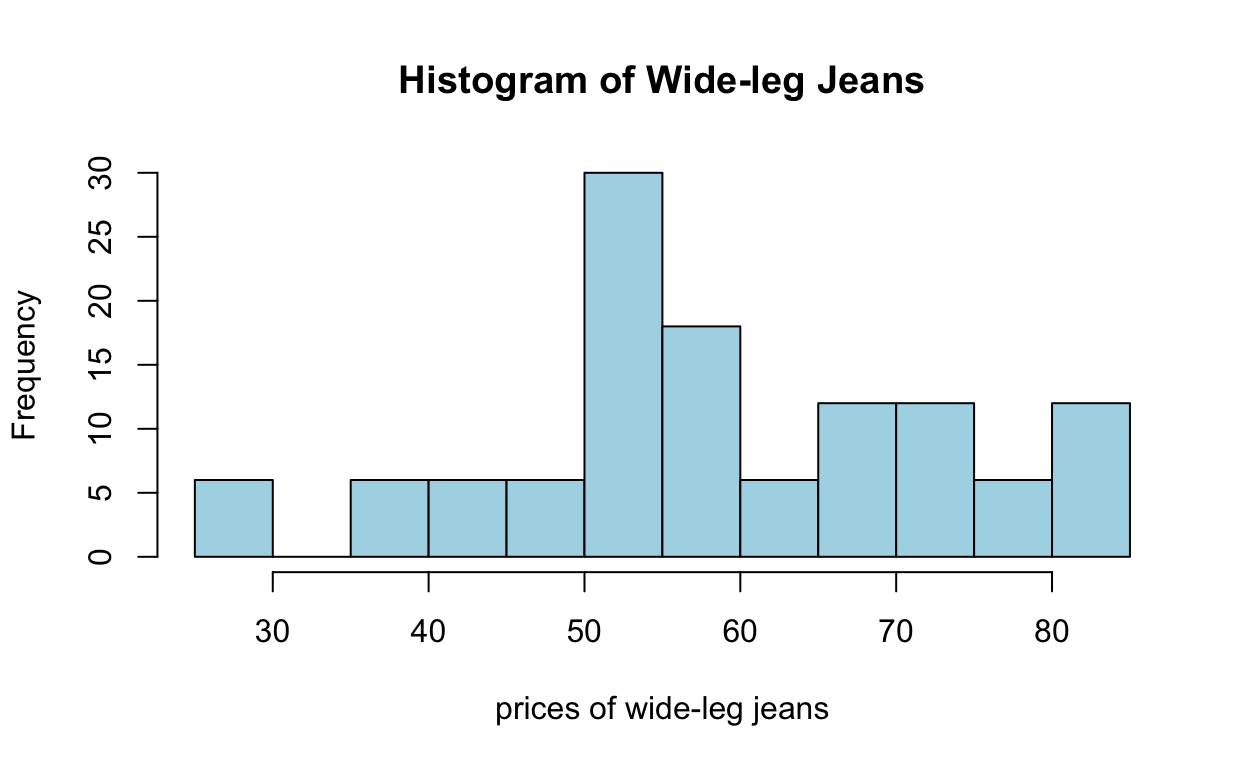
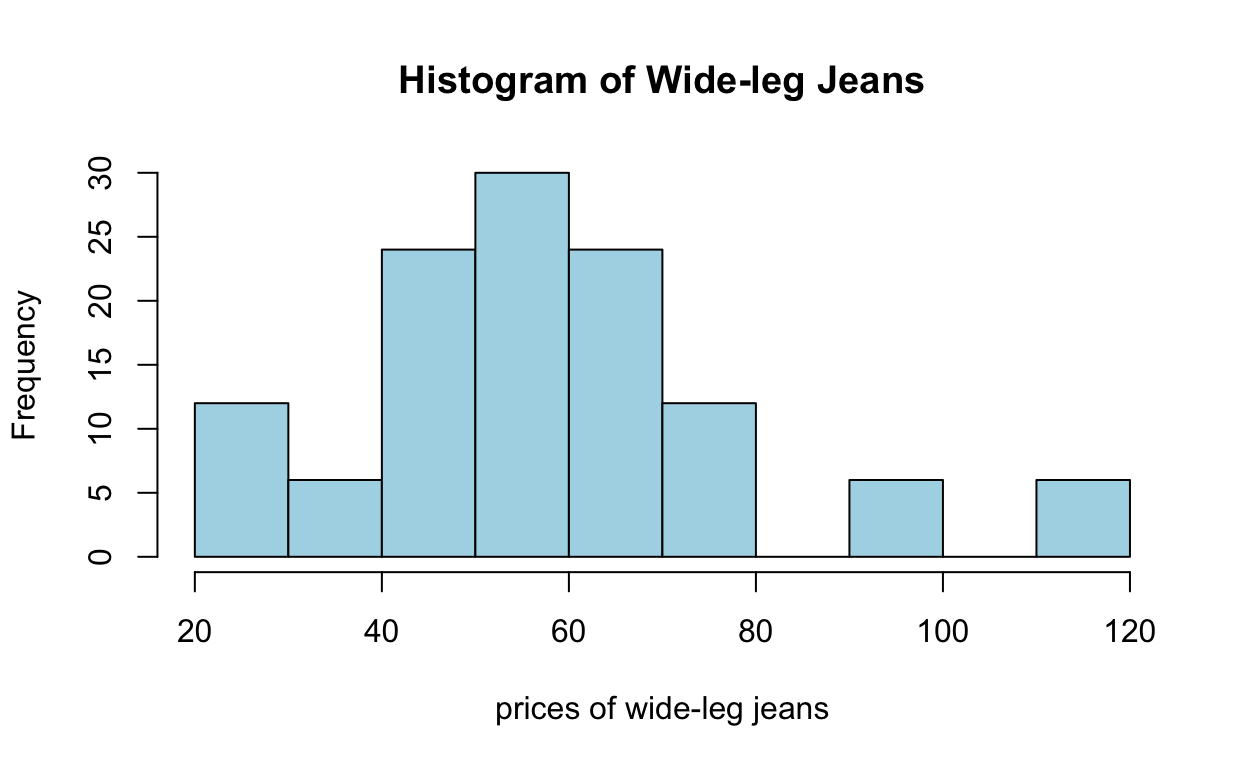
addition to the revised blogpost

diff --git a/docs/indexing_filtering.html b/docs/indexing_filtering.html
@@ -2269,28 +2269,28 @@ Statistik II
 <span><span class='fu'><a href='https://rdrr.io/r/utils/head.html'>head</a></span><span class='op'>(</span><span class='va'>my_dataframe</span><span class='op'>)</span></span></code></pre>
 </div>
 <pre><code>  ItemType Price       Cut
-1    jeans    47      boot
-2    jeans    44       7/8
-3    jeans    47    skinny
-4    jeans    39  wide leg
-5    jeans    77 boyfriend
-6    jeans    96      boot</code></pre>
+1    jeans    52      boot
+2    jeans    59       7/8
+3    jeans    68    skinny
+4    jeans    59  wide leg
+5    jeans    74 boyfriend
+6    jeans    90      boot</code></pre>
 <div class="sourceCode">
 <pre class="sourceCode r"><code class="sourceCode r"><span><span class='co'># Access the second row</span></span>
 <span><span class='va'>row_2</span> <span class='op'>=</span> <span class='va'>my_dataframe</span><span class='op'>[</span><span class='fl'>2</span>, <span class='op'>]</span></span>
 <span><span class='fu'><a href='https://rdrr.io/r/base/print.html'>print</a></span><span class='op'>(</span><span class='va'>row_2</span><span class='op'>)</span></span></code></pre>
 </div>
 <pre><code>  ItemType Price Cut
-2    jeans    44 7/8</code></pre>
+2    jeans    59 7/8</code></pre>
 <div class="sourceCode">
 <pre class="sourceCode r"><code class="sourceCode r"><span><span class='co'># Access the entire first column</span></span>
 <span><span class='va'>col_2</span> <span class='op'>=</span> <span class='va'>my_dataframe</span><span class='op'>[</span> ,<span class='fl'>2</span><span class='op'>]</span></span>
 <span><span class='va'>col_2</span><span class='op'>[</span><span class='fl'>1</span><span class='op'>:</span><span class='fl'>50</span><span class='op'>]</span></span></code></pre>
 </div>
-<pre><code> [1]  47  44  47  39  77  96  72  50  70  59  65  95  77  68  71  85
-[17]  95  58  60  66  52  91  37  56  53  29  71  50  65  54  77  38
-[33]  74  53  40  66  67  56  54  73  44  94  29  45  39  54 103  58
-[49]  74  90</code></pre>
+<pre><code> [1]  52  59  68  59  74  90  53  32  30  81  53  63  54  58  22  50
+[17]  74  50  56  67  53  33  48  32  52  78  54  35  27  81  47  54
+[33]  46  65  31  28  41  75  72  79 111  38  74  47 103  52  49  69
+[49]  46  62</code></pre>
 <div class="sourceCode">
 <pre class="sourceCode r"><code class="sourceCode r"><span><span class='co'># Access the 'Age' column using column name</span></span>
 <span><span class='va'>allCuts</span> <span class='op'>=</span> <span class='va'>my_dataframe</span><span class='op'>$</span><span class='va'>Cut</span></span>
@@ -2332,26 +2332,26 @@ Statistik II
 <span><span class='fu'><a href='https://rdrr.io/r/utils/head.html'>head</a></span><span class='op'>(</span><span class='va'>my_dataframe_boot</span>, n <span class='op'>=</span> <span class='fl'>20</span><span class='op'>)</span> <span class='co'># n stands for the number of top observations you wish to see out of the dataframe </span></span></code></pre>
 </div>
 <pre><code>   ItemType Price  Cut
-1     jeans    47 boot
-6     jeans    96 boot
-11    jeans    65 boot
-16    jeans    85 boot
-21    jeans    52 boot
-26    jeans    29 boot
-31    jeans    77 boot
-36    jeans    66 boot
-41    jeans    44 boot
-46    jeans    54 boot
-51    jeans    84 boot
-56    jeans    44 boot
-61    jeans    29 boot
-66    jeans    83 boot
-71    jeans    85 boot
-76    jeans    71 boot
-81    jeans    92 boot
-86    jeans    63 boot
-91    jeans    48 boot
-96    jeans    57 boot</code></pre>
+1     jeans    52 boot
+6     jeans    90 boot
+11    jeans    53 boot
+16    jeans    50 boot
+21    jeans    53 boot
+26    jeans    78 boot
+31    jeans    47 boot
+36    jeans    28 boot
+41    jeans   111 boot
+46    jeans    52 boot
+51    jeans    60 boot
+56    jeans    81 boot
+61    jeans   106 boot
+66    jeans    47 boot
+71    jeans    36 boot
+76    jeans    54 boot
+81    jeans    61 boot
+86    jeans    35 boot
+91    jeans    89 boot
+96    jeans    62 boot</code></pre>
 <div class="sourceCode">
 <pre class="sourceCode r"><code class="sourceCode r"><span><span class='co'># bonus...lets see the distribution of the prices of boot cuts </span></span>
 <span><span class='fu'><a href='https://rdrr.io/r/graphics/hist.html'>hist</a></span><span class='op'>(</span><span class='va'>my_dataframe</span><span class='op'>[</span><span class='va'>condition_boot</span>, <span class='fl'>2</span><span class='op'>]</span>,</span>
@@ -2375,75 +2375,20 @@ Statistik II
 </div>
 <p><img src="indexing_filtering_files/figure-html5/unnamed-chunk-7-1.png" width="624" /></p>
 </div>
-<h2 id="yet-another-way-to-indexfilter">yet another way to index/filter</h2>
-<p>Stellen wir uns vor, wir haben einen Datenrahmen namens “clothing”, der eine Liste verschiedener Kleidungsstücke, deren Farben und Preise enthält. Wir wollen Zeilen für alle Jeans extrahieren, die blau sind (oder die mehr als 35 EUR kosten). Hier ist ein Beispiel, wie du den Datenrahmen einrichten und die Operation durchführen könntest:</p>
-<p>Auch in diesem Beispiel: Wir können auch mehrerer Bedingungen kombinieren mithilfe von logischen Operatoren wie &amp; (UND) und | (ODER). Zum Beispiel, wenn du Zeilen filtern möchtest, in denen ‘price’ größer als 59 und ein “wide leg” cut ist:</p>
+<h2 id="indexingfiltering-by-multiple-conditions">Indexing/Filtering by multiple conditions</h2>
+<p>Stellen wir uns vor, wir wollen Zeilen für alle “Wide leg” Jeans extrahieren UND die mehr als 39 EUR kosten. Hier ist ein Beispiel, wie du den Datenrahmen einrichten und die Operation durchführen könntest:</p>
+<p>Wir können mehrerer Bedingungen kombinieren mithilfe von logischen Operatoren wie &amp; (UND) und | (ODER).</p>
+<p>Zum Beispiel,</p>
+<ol type="1">
+<li>wenn du Zeilen filtern möchtest, in denen ‘price’ größer als 39 UND ein “wide leg” cut ist.
 <div class="layout-chunk" data-layout="l-body">
 <div class="sourceCode">
 <pre class="sourceCode r"><code class="sourceCode r"><span><span class='co'># condition that will select both wide cuts and those that cost more than 59Euro</span></span>
 <span><span class='va'>condition_wide_39</span> <span class='op'>=</span> <span class='va'>my_dataframe</span><span class='op'>$</span><span class='va'>Cut</span> <span class='op'>==</span> <span class='st'>"wide leg"</span> <span class='op'>&amp;</span> <span class='va'>my_dataframe</span><span class='op'>$</span><span class='va'>Price</span> <span class='op'>&gt;</span> <span class='fl'>39</span></span>
-<span><span class='fu'><a href='https://rdrr.io/r/base/print.html'>print</a></span><span class='op'>(</span><span class='va'>condition_wide_39</span><span class='op'>)</span></span></code></pre>
-</div>
-<pre><code>  [1] FALSE FALSE FALSE FALSE FALSE FALSE FALSE FALSE  TRUE FALSE
- [11] FALSE FALSE FALSE  TRUE FALSE FALSE FALSE FALSE  TRUE FALSE
- [21] FALSE FALSE FALSE  TRUE FALSE FALSE FALSE FALSE  TRUE FALSE
- [31] FALSE FALSE FALSE  TRUE FALSE FALSE FALSE FALSE  TRUE FALSE
- [41] FALSE FALSE FALSE  TRUE FALSE FALSE FALSE FALSE  TRUE FALSE
- [51] FALSE FALSE FALSE  TRUE FALSE FALSE FALSE FALSE  TRUE FALSE
- [61] FALSE FALSE FALSE  TRUE FALSE FALSE FALSE FALSE  TRUE FALSE
- [71] FALSE FALSE FALSE  TRUE FALSE FALSE FALSE FALSE FALSE FALSE
- [81] FALSE FALSE FALSE  TRUE FALSE FALSE FALSE FALSE  TRUE FALSE
- [91] FALSE FALSE FALSE  TRUE FALSE FALSE FALSE FALSE  TRUE FALSE
-[101] FALSE FALSE FALSE FALSE FALSE FALSE FALSE FALSE  TRUE FALSE
-[111] FALSE FALSE FALSE  TRUE FALSE FALSE FALSE FALSE  TRUE FALSE
-[121] FALSE FALSE FALSE  TRUE FALSE FALSE FALSE FALSE  TRUE FALSE
-[131] FALSE FALSE FALSE  TRUE FALSE FALSE FALSE FALSE  TRUE FALSE
-[141] FALSE FALSE FALSE  TRUE FALSE FALSE FALSE FALSE  TRUE FALSE
-[151] FALSE FALSE FALSE  TRUE FALSE FALSE FALSE FALSE  TRUE FALSE
-[161] FALSE FALSE FALSE  TRUE FALSE FALSE FALSE FALSE  TRUE FALSE
-[171] FALSE FALSE FALSE  TRUE FALSE FALSE FALSE FALSE FALSE FALSE
-[181] FALSE FALSE FALSE  TRUE FALSE FALSE FALSE FALSE  TRUE FALSE
-[191] FALSE FALSE FALSE  TRUE FALSE FALSE FALSE FALSE  TRUE FALSE
-[201] FALSE FALSE FALSE FALSE FALSE FALSE FALSE FALSE  TRUE FALSE
-[211] FALSE FALSE FALSE  TRUE FALSE FALSE FALSE FALSE  TRUE FALSE
-[221] FALSE FALSE FALSE  TRUE FALSE FALSE FALSE FALSE  TRUE FALSE
-[231] FALSE FALSE FALSE  TRUE FALSE FALSE FALSE FALSE  TRUE FALSE
-[241] FALSE FALSE FALSE  TRUE FALSE FALSE FALSE FALSE  TRUE FALSE
-[251] FALSE FALSE FALSE  TRUE FALSE FALSE FALSE FALSE  TRUE FALSE
-[261] FALSE FALSE FALSE  TRUE FALSE FALSE FALSE FALSE  TRUE FALSE
-[271] FALSE FALSE FALSE  TRUE FALSE FALSE FALSE FALSE FALSE FALSE
-[281] FALSE FALSE FALSE  TRUE FALSE FALSE FALSE FALSE  TRUE FALSE
-[291] FALSE FALSE FALSE  TRUE FALSE FALSE FALSE FALSE  TRUE FALSE
-[301] FALSE FALSE FALSE FALSE FALSE FALSE FALSE FALSE  TRUE FALSE
-[311] FALSE FALSE FALSE  TRUE FALSE FALSE FALSE FALSE  TRUE FALSE
-[321] FALSE FALSE FALSE  TRUE FALSE FALSE FALSE FALSE  TRUE FALSE
-[331] FALSE FALSE FALSE  TRUE FALSE FALSE FALSE FALSE  TRUE FALSE
-[341] FALSE FALSE FALSE  TRUE FALSE FALSE FALSE FALSE  TRUE FALSE
-[351] FALSE FALSE FALSE  TRUE FALSE FALSE FALSE FALSE  TRUE FALSE
-[361] FALSE FALSE FALSE  TRUE FALSE FALSE FALSE FALSE  TRUE FALSE
-[371] FALSE FALSE FALSE  TRUE FALSE FALSE FALSE FALSE FALSE FALSE
-[381] FALSE FALSE FALSE  TRUE FALSE FALSE FALSE FALSE  TRUE FALSE
-[391] FALSE FALSE FALSE  TRUE FALSE FALSE FALSE FALSE  TRUE FALSE
-[401] FALSE FALSE FALSE FALSE FALSE FALSE FALSE FALSE  TRUE FALSE
-[411] FALSE FALSE FALSE  TRUE FALSE FALSE FALSE FALSE  TRUE FALSE
-[421] FALSE FALSE FALSE  TRUE FALSE FALSE FALSE FALSE  TRUE FALSE
-[431] FALSE FALSE FALSE  TRUE FALSE FALSE FALSE FALSE  TRUE FALSE
-[441] FALSE FALSE FALSE  TRUE FALSE FALSE FALSE FALSE  TRUE FALSE
-[451] FALSE FALSE FALSE  TRUE FALSE FALSE FALSE FALSE  TRUE FALSE
-[461] FALSE FALSE FALSE  TRUE FALSE FALSE FALSE FALSE  TRUE FALSE
-[471] FALSE FALSE FALSE  TRUE FALSE FALSE FALSE FALSE FALSE FALSE
-[481] FALSE FALSE FALSE  TRUE FALSE FALSE FALSE FALSE  TRUE FALSE
-[491] FALSE FALSE FALSE  TRUE FALSE FALSE FALSE FALSE  TRUE FALSE
-[501] FALSE FALSE FALSE FALSE FALSE FALSE FALSE FALSE  TRUE FALSE
-[511] FALSE FALSE FALSE  TRUE FALSE FALSE FALSE FALSE  TRUE FALSE
-[521] FALSE FALSE FALSE  TRUE FALSE FALSE FALSE FALSE  TRUE FALSE
-[531] FALSE FALSE FALSE  TRUE FALSE FALSE FALSE FALSE  TRUE FALSE
-[541] FALSE FALSE FALSE  TRUE FALSE FALSE FALSE FALSE  TRUE FALSE
-[551] FALSE FALSE FALSE  TRUE FALSE FALSE FALSE FALSE  TRUE FALSE
-[561] FALSE FALSE FALSE  TRUE FALSE FALSE FALSE FALSE  TRUE FALSE
-[571] FALSE FALSE FALSE  TRUE FALSE FALSE FALSE FALSE FALSE FALSE
-[581] FALSE FALSE FALSE  TRUE FALSE FALSE FALSE FALSE  TRUE FALSE
-[591] FALSE FALSE FALSE  TRUE FALSE FALSE FALSE FALSE  TRUE FALSE</code></pre>
+<span><span class='fu'><a href='https://rdrr.io/r/utils/head.html'>head</a></span><span class='op'>(</span><span class='va'>condition_wide_39</span><span class='op'>)</span></span></code></pre>
+</div></li>
+</ol>
+<pre><code>[1] FALSE FALSE FALSE  TRUE FALSE FALSE</code></pre>
 <div class="sourceCode">
 <pre class="sourceCode r"><code class="sourceCode r"><span><span class='va'>data_wide_39</span> <span class='op'>=</span> <span class='va'>my_dataframe</span><span class='op'>[</span><span class='va'>condition_wide_39</span>,<span class='op'>]</span></span>
 <span></span>
@@ -2455,81 +2400,84 @@ Statistik II
 </div>
 <p><img src="indexing_filtering_files/figure-html5/unnamed-chunk-8-1.png" width="624" /></p>
 </div>
+<ol start="2" type="1">
+<li>wenn du Zeilen filtern möchtest, in denen ‘price’ größer als 39 ODER ein “wide leg” cut ist.</li>
+</ol>
+<div class="layout-chunk" data-layout="l-body">
+<div class="sourceCode">
+<pre class="sourceCode r"><code class="sourceCode r"><span><span class='co'># condition that will select both wide cuts and those that cost more than 59Euro</span></span>
+<span><span class='va'>condition_wide_or_39</span> <span class='op'>=</span> <span class='va'>my_dataframe</span><span class='op'>$</span><span class='va'>Cut</span> <span class='op'>==</span> <span class='st'>"wide leg"</span> <span class='op'>|</span> <span class='va'>my_dataframe</span><span class='op'>$</span><span class='va'>Price</span> <span class='op'>&gt;</span> <span class='fl'>39</span></span>
+<span><span class='fu'><a href='https://rdrr.io/r/utils/head.html'>head</a></span><span class='op'>(</span><span class='va'>condition_wide_or_39</span><span class='op'>)</span></span></code></pre>
+</div>
+<pre><code>[1] TRUE TRUE TRUE TRUE TRUE TRUE</code></pre>
+<div class="sourceCode">
+<pre class="sourceCode r"><code class="sourceCode r"><span><span class='va'>data_wide_or_39</span> <span class='op'>=</span> <span class='va'>my_dataframe</span><span class='op'>[</span><span class='va'>condition_wide_or_39</span>,<span class='op'>]</span></span>
+<span></span>
+<span><span class='fu'><a href='https://rdrr.io/r/graphics/hist.html'>hist</a></span><span class='op'>(</span><span class='va'>data_wide_or_39</span><span class='op'>[</span>,<span class='fl'>2</span><span class='op'>]</span>,</span>
+<span>     col <span class='op'>=</span> <span class='st'>"lightblue"</span>, border <span class='op'>=</span> <span class='st'>"#227FCE"</span>,</span>
+<span>     main <span class='op'>=</span> <span class='fu'><a href='https://rdrr.io/r/base/paste.html'>paste</a></span><span class='op'>(</span><span class='st'>"Histogram of &gt; 39Euros &amp; Wide-leg Cut"</span><span class='op'>)</span>,</span>
+<span>     xlab <span class='op'>=</span> <span class='st'>"prices of 'wide-leg &amp; price &gt; 39' jeans"</span></span>
+<span>     <span class='op'>)</span></span></code></pre>
+</div>
+<p><img src="indexing_filtering_files/figure-html5/unnamed-chunk-9-1.png" width="624" /></p>
+</div>
 <hr />
-<h2 id="important-to-know">Important to know:</h2>
-<h3 id="in-r-the-sign-is-used-to-access-a-specific-column-variable-within-a-data-frame-or-list.-it-allows-you-to-extract-or-work-with-a-single-column-of-data-from-a-larger-data-structure-such-as-a-data-frame-without-having-to-reference-the-entire-data-frame-each-time.">In R, the ‘$’ sign is used to access a specific column (variable) within a data frame or list. It allows you to extract or work with a single column of data from a larger data structure, such as a data frame, without having to reference the entire data frame each time.</h3>
-<p><strong>Task 1: Access a Specific Element in a Matrix</strong></p>
+<h4 id="important-to-know">Important to know:</h4>
+<p>In R, the ‘$’ sign is used to access a specific column (variable) within a data frame or list. It allows you to extract or work with a single column of data from a larger data structure, such as a data frame, without having to reference the entire data frame each time.</p>
+<p><strong>Task 1: Access a Specific Element in a Matrix/Dataframe</strong></p>
 <div style="border: 1px solid;margin: auto;width: 90%;padding: 10px;text-align:left;background:#DBF9FC;font-family: curier;font-size:15px">
-<ol type="1">
-<li><p>Create a 3x3 numeric matrix named my_matrix with values (1 to 9).</p></li>
-<li><p>Use indexing to access and display the element in the second row and third column.</p></li>
+<ol start="2" type="1">
+<li><p>Use indexing to access and display the element in the second row and third column in the dataframe presented earlier in this blogpost.</p></li>
 <li><p>Print the value of the accessed element.</p></li>
 </ol>
 </div>
 <div class="layout-chunk" data-layout="l-body">
 
 </div>
-<p><strong>Task 2: Extract an Entire Row from a Matrix</strong></p>
+<p><strong>Task 2: Extend and index a Matrix/Dataframe</strong></p>
 <div style="border: 1px solid;margin: auto;width: 90%;padding: 10px;text-align:left;background:#DBF9FC;font-family: curier;font-size:15px">
 <ol type="1">
-<li><p>Extend the 3x3 matrix from the previous task to include additional rows.</p></li>
-<li><p>Use indexing to extract and display the entire second row of the matrix.</p></li>
-<li><p>Print the extracted row to verify its contents.</p></li>
+<li><p>Add another column to the dataframe, which represents the brand category. It will be the following vector: rep(c(“expensive”,“top”, “middle”, “affordable”, “cheap”), 120). *learn about that rep() does by typing ?rep in the console!</p></li>
+<li><p>Use indexing to extract and display the first 10 rows of this dataframe and see if the rep() did what it was suppose to.</p></li>
 </ol>
 </div>
 <div class="layout-chunk" data-layout="l-body">
 
 </div>
-<p><strong>Task 3: Extract a Column from a Matrix</strong></p>
+<p><strong>Task 3: Extract rows in Matrix/Dataframe by condition</strong></p>
 <div style="border: 1px solid;margin: auto;width: 90%;padding: 10px;text-align:left;background:#DBF9FC;font-family: curier;font-size:15px">
 <ol type="1">
-<li><p>Extend the 4x3 matrix from the previous task to include more columns.</p></li>
-<li><p>Use indexing to extract and display the entire third column of the matrix.</p></li>
-<li><p>Print the extracted column to ensure it contains the correct values.</p></li>
+<li><p>Extract the rows in the dataframe, which represents only the “affordable” category.</p></li>
+<li><p>Print it.</p></li>
+<li><p>Bonus: create a histogram to show the distribution of the prices in this category</p></li>
 </ol>
 </div>
 <div class="layout-chunk" data-layout="l-body">
-
+<p><img src="indexing_filtering_files/figure-html5/unnamed-chunk-12-1.png" width="624" /></p>
 </div>
-<p><strong>Task 4: Access a Single Column in a Data Frame</strong></p>
+<p><strong>Task 4: Filter by multiple conditions</strong></p>
 <div style="border: 1px solid;margin: auto;width: 90%;padding: 10px;text-align:left;background:#DBF9FC;font-family: curier;font-size:15px">
 <ol type="1">
-<li>Create a data frame named my_dataframe with two columns: ‘Name’ and ‘Age’. For example:</li>
-</ol>
-<p>my_dataframe = data.frame(
-Name = c(“Alice”, “Bob”, “Charlie”),
-Age = c(25, 30, 22)
-)</p>
-<ol start="2" type="1">
-<li>Use the $ sign to access and print the ‘Age’ column.</li>
-</ol>
-</div>
-<div class="layout-chunk" data-layout="l-body">
-
-</div>
-<p><strong>Task 5: Filter Rows Based on a Condition in a Data Frame</strong></p>
-<div style="border: 1px solid;margin: auto;width: 90%;padding: 10px;text-align:left;background:#DBF9FC;font-family: curier;font-size:15px">
-<ol type="1">
-<li><p>Add a new column named ‘Salary’ to the my_dataframe data frame with these salary values: 35000, 40000, 28000, 45000.</p></li>
-<li><p>Write code to filter and display only the rows where the ‘Salary’ is greater than 30000.</p></li>
-<li><p>Confirm that the filtering produces the expected result.</p></li>
+<li><p>Extract the rows in the dataframe, which represents only the “cheap” category and where prices are below 30.</p></li>
+<li><p>Print it.</p></li>
+<li><p>Bonus: create a histogram to show the distribution of the prices in these two conditions.</p></li>
 </ol>
 </div>
 <div class="layout-chunk" data-layout="l-body">
 <p><img src="indexing_filtering_files/figure-html5/unnamed-chunk-13-1.png" width="624" /></p>
 </div>
-<p><strong>Task 6: Access Multiple Columns in a Data Frame</strong></p>
+<p><strong>Task 5: Add a column and index</strong></p>
 <div style="border: 1px solid;margin: auto;width: 90%;padding: 10px;text-align:left;background:#DBF9FC;font-family: curier;font-size:15px">
 <ol type="1">
-<li><p>Extend the my_dataframe data frame with a new column named ‘Department.’. Use the ‘$’ sign or cbind() to do so.</p></li>
-<li><p>Use indexing to access and display both the ‘Name’ and ‘Department’ columns simultaneously.</p></li>
-<li><p>Print the selected columns to ensure you can access and view them.</p></li>
+<li><p>Extend the my_dataframe data frame with a new column named ‘ID’. Use the ‘$’ to do so. Hin: we have 600 rows in this dataframe. Use dim() to find our what the dimensions of this dataframe is to knwo how many rows we have.</p></li>
+<li><p>Use indexing to access and display the first 100 rows.</p></li>
+<li><p>Print your results.</p></li>
 </ol>
 </div>
 <div class="layout-chunk" data-layout="l-body">
 
 </div>
-<div class="sourceCode" id="cb16"><pre class="sourceCode r distill-force-highlighting-css"><code class="sourceCode r"></code></pre></div>
+<div class="sourceCode" id="cb17"><pre class="sourceCode r distill-force-highlighting-css"><code class="sourceCode r"></code></pre></div>
 <!--radix_placeholder_article_footer-->
 <!--/radix_placeholder_article_footer-->
 </div>
